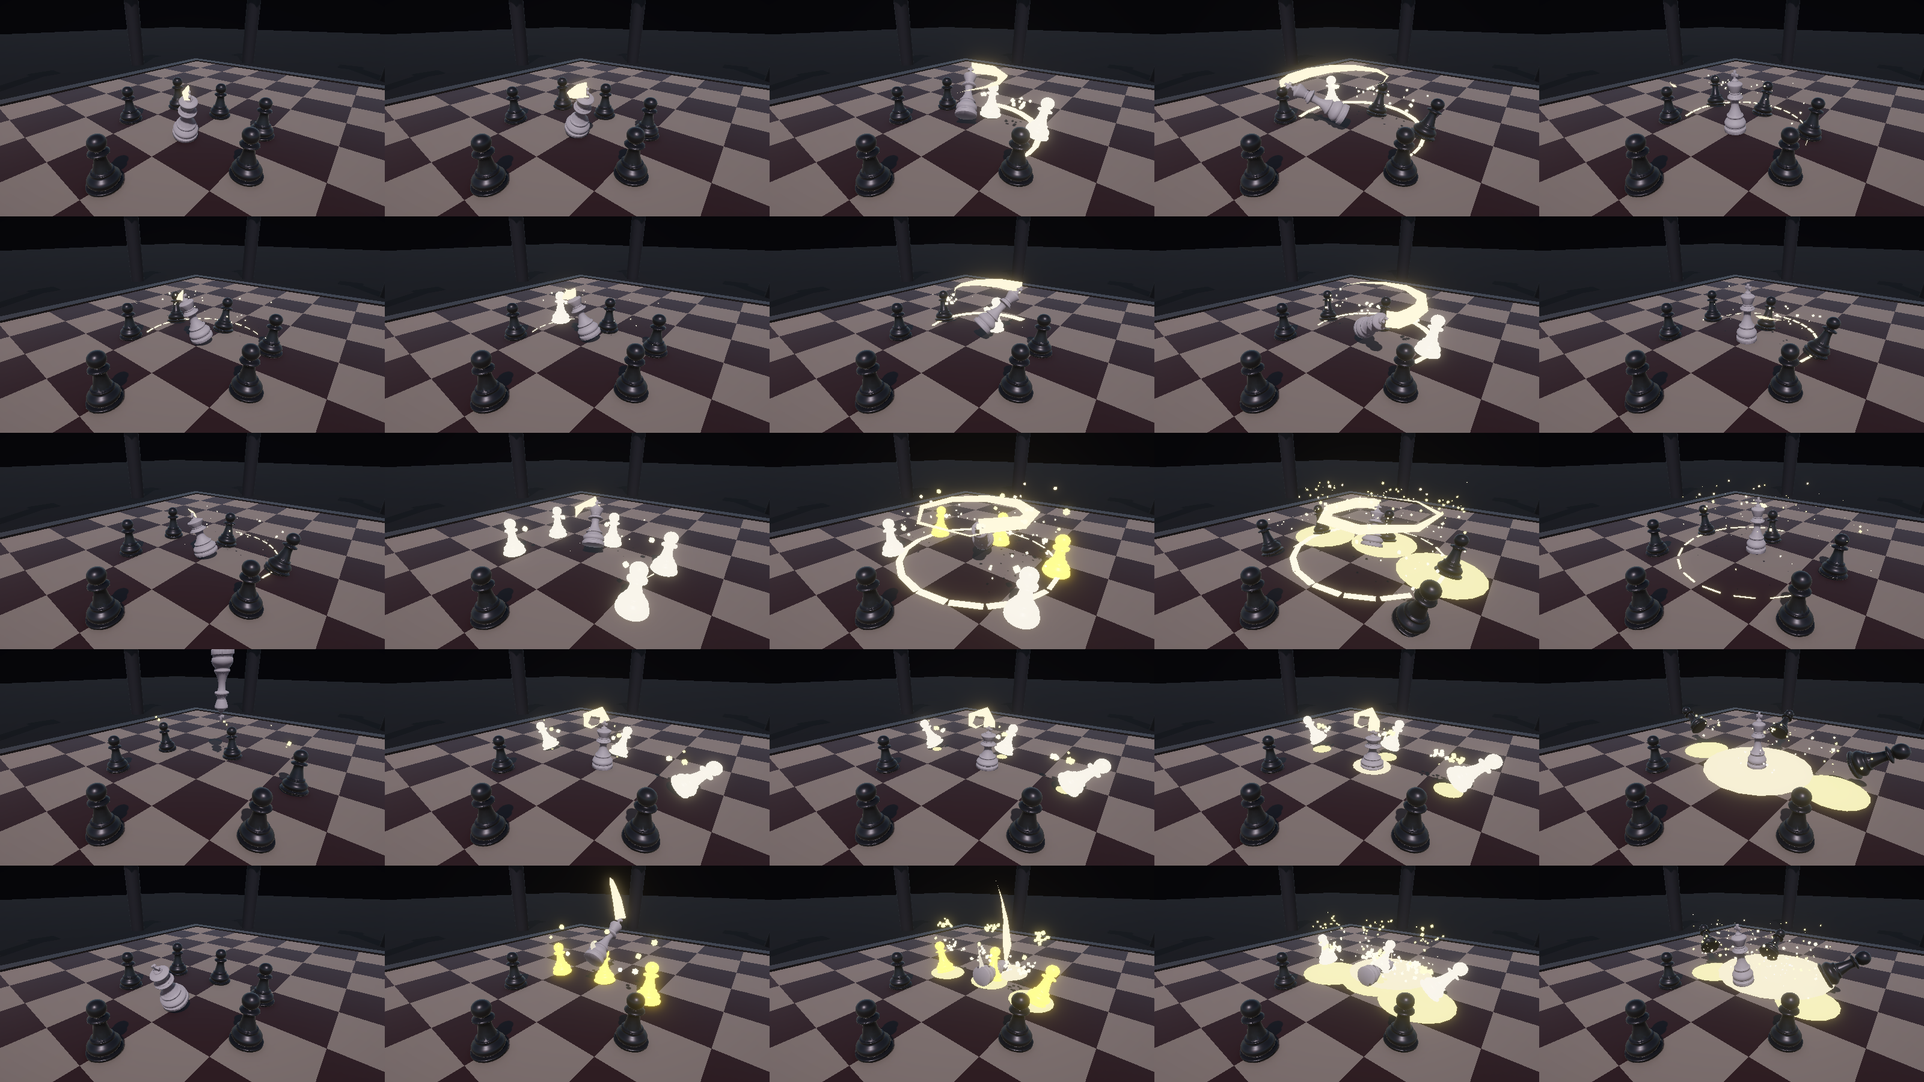
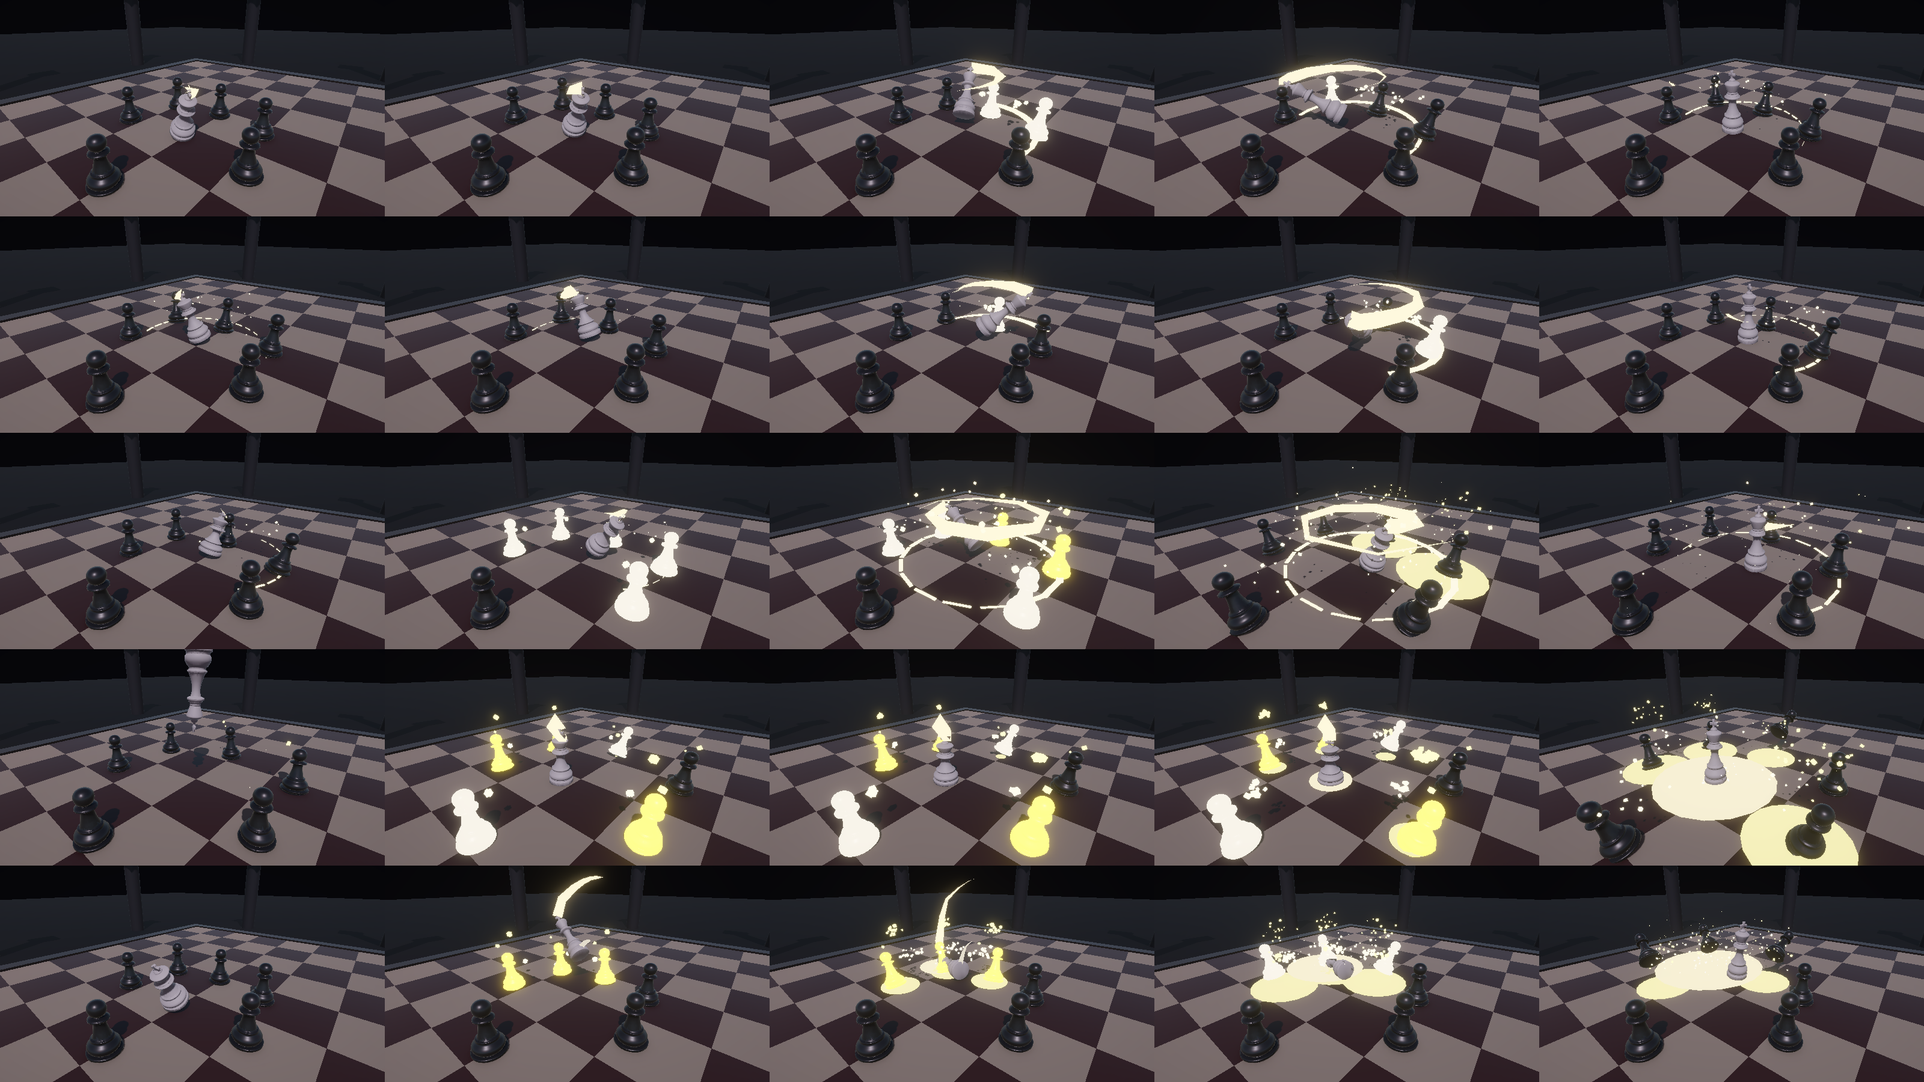
Multi-target auto-aim, round-end flow and the new round lineup
- Auto-aim picks the facing that hits the most nearby pieces (candidates:
  toward each piece and between each pair; input only breaks ties), keeps
  tracking during the wind-up, ignores movement input when pieces are close,
  and does nothing when they are far
- Round clear: the King finishes his current move with input ignored, then
  warps back to e1 (~2.3s) before the next round
- Rounds: 4 pawns first, knights from round 2, round 10 is the whole black
  army (8 pawns, 2 rooks, 2 knights, 2 bishops, the Queen)
- Attack Lab: cluster vs. lone target, close-behind and far-away aim checks

diff --git a/Assets/Scripts/Combat/PlayerController.cs b/Assets/Scripts/Combat/PlayerController.cs
@@ -19,10 +19,8 @@ namespace KingLastPiece
         const float SprintSpeed = 8.2f, SprintDrain = 14f, SprintRecoverAt = 20f;
         /// <summary>Light (combo) attacks cost only this fraction of their listed stamina.</summary>
         const float LightCostScale = 0.35f;
-        // Soft auto-targeting: nearby piece within this range/angle of the aim gets faced when an attack starts.
-        // Close pieces get a wide cone (helps when they slip to the side); farther ones need to be roughly aimed at.
-        const float SoftTargetMinRange = 2.5f, SoftTargetMaxRange = 4.5f, SoftTargetCloseRange = 3f;
-        const float SoftTargetCloseAngle = 120f, SoftTargetFarAngle = 60f;
+        // Auto-aim: only pieces within this range (scaled by the attack's reach) are considered.
+        const float AssistMinRange = 2.5f, AssistMaxRange = 4.5f;
         const float DodgeDuration = 0.5f, IFrameStart = 0.03f, IFrameEnd = 0.36f, DodgeCancelAt = 0.4f;
 
         // Dodge charges replace stamina for rolling: a short burst of rolls, refilled quickly.
@@ -58,6 +56,7 @@ namespace KingLastPiece
         public bool IsCountering => state == State.Counter;
         public bool IsSprinting { get; private set; }
         public Vector3 LastDodgeDirection { get; private set; }
+        bool InputEnabled { get; set; } = true;
         public bool IsDodging => state == State.Dodge;
         public bool IsAttacking => state == State.Attack;
         public bool IsIdle => state == State.Normal;
@@ -84,7 +83,9 @@ namespace KingLastPiece
         float dodgeRecharge, sprintBlend;
         bool sprintExhausted;
         bool justThisDodge;
-        EnemyBase justTarget, counterTarget, softTarget;
+        EnemyBase justTarget, counterTarget;
+        readonly List<EnemyBase> assistNearby = new List<EnemyBase>();
+        readonly List<Vector3> assistCandidates = new List<Vector3>();
         Vector3 counterFrom, counterTo;
         float counterAngle0;
         bool counterReleased;
@@ -156,6 +157,22 @@ namespace KingLastPiece
             Flash(new Color(1f, 0.8f, 0.3f) * 1.5f, 0.4f);
         }
 
+        /// <summary>Between rounds: warp back to the starting square (with a little sparkle at both ends).</summary>
+        public void ReturnToStart(Vector3 pos, float yaw)
+        {
+            var gold = new Color(1f, 0.85f, 0.45f);
+            Effects.Sparks(transform.position + Vector3.up, gold, 14, 3f);
+            transform.SetPositionAndRotation(new Vector3(pos.x, 0f, pos.z), Quaternion.Euler(0f, yaw, 0f));
+            if (!IsDead) Enter(State.Normal);
+            ApplyPose(default);
+            crownTrail.emitting = baseTrail.emitting = false;
+            crownTrail.Clear();
+            baseTrail.Clear();
+            LockTarget = null;
+            Effects.Shockwave(FlatPos, 1.4f, gold, 0.4f);
+            Effects.Sparks(transform.position + Vector3.up, gold, 14, 3f);
+        }
+
         public void RefillForLab()
         {
             Health = MaxHealth;
@@ -181,10 +198,15 @@ namespace KingLastPiece
                 ApplyPose(BodyPose.P(tilt: -90f * p + 6f * Mathf.Sin(Mathf.Clamp01(stateTime / 0.9f) * Mathf.PI)));
                 return;
             }
-            if (Game == null || Game.State != GameManager.GameState.Playing) return;
+            if (Game == null) return;
+            // After a round is cleared the King finishes whatever he was doing (input ignored) instead of freezing.
+            bool roundOver = Game.State == GameManager.GameState.WaveClear;
+            if (Game.State != GameManager.GameState.Playing && !roundOver) return;
+            InputEnabled = !roundOver;
 
             dt = DeltaTime;
-            ReadInput(dt);
+            if (InputEnabled) ReadInput(dt);
+            else { buffer = Buffered.None; LockTarget = null; }
             stateTime += dt;
             UpdateStamina(dt);
             UpdateDodgeCharges(dt);
@@ -279,6 +301,7 @@ namespace KingLastPiece
 
         Vector3 InputDirection()
         {
+            if (!InputEnabled) return Vector3.zero;
             Vector2 mi = GameInput.Move;
             var rig = Game.Rig;
             return rig.FlatRight * mi.x + rig.FlatForward * mi.y;
@@ -390,52 +413,98 @@ namespace KingLastPiece
             Enter(State.Attack);
 
             Vector3 dir = InputDirection();
-            // Soft auto-targeting (no visuals): without a lock-on, turn toward a nearby piece in the aimed direction.
-            softTarget = LockTarget == null ? FindSoftTarget(dir.sqrMagnitude > 0.01f ? dir : transform.forward, atk.Reach) : null;
-            var aim = AimTarget;
-            if (aim != null) dir = aim.FlatPos - FlatPos;
+            // Auto-aim (no visuals): with pieces close by, face the direction that hits the most of them —
+            // regardless of where the player is moving. Far away it does nothing.
+            if (LockTarget != null) dir = LockTarget.FlatPos - FlatPos;
+            else if (TryFindAssistDirection(dir.sqrMagnitude > 0.01f ? dir : transform.forward, out var best)) dir = best;
             if (dir.sqrMagnitude > 0.01f) transform.rotation = Quaternion.LookRotation(new Vector3(dir.x, 0f, dir.z));
         }
 
-        /// <summary>Lock-on target, or the soft auto-target picked when the attack started.</summary>
-        EnemyBase AimTarget => LockTarget != null ? LockTarget : softTarget != null && !softTarget.IsDead ? softTarget : null;
-
         /// <summary>
-        /// Nearest piece within reach that is roughly where the player is aiming (stick/keys, or facing when idle).
-        /// Distance matters most; the angle only breaks ties, so close enemies win even slightly off-axis.
+        /// Picks the facing that makes the current attack hit the most pieces in assist range.
+        /// Candidates: toward each nearby piece, between every pair of them, and the player's own aim
+        /// (which only breaks ties). Returns false when nothing is close enough to assist.
         /// </summary>
-        EnemyBase FindSoftTarget(Vector3 aimDir, float reach)
+        bool TryFindAssistDirection(Vector3 preferred, out Vector3 best)
         {
-            float maxDist = Mathf.Clamp(reach + 0.8f, SoftTargetMinRange, SoftTargetMaxRange);
-            EnemyBase best = null;
-            float bestScore = float.MaxValue;
+            best = Vector3.zero;
+            float range = Mathf.Clamp(atk.Reach + 0.6f, AssistMinRange, AssistMaxRange);
+            assistNearby.Clear();
+            foreach (var e in Game.Enemies)
+                if (e != null && !e.IsDead && e.Targetable && (e.FlatPos - FlatPos).magnitude <= range + e.Radius)
+                    assistNearby.Add(e);
+            if (assistNearby.Count == 0) return false;
+
+            assistCandidates.Clear();
+            preferred.y = 0f;
+            assistCandidates.Add(preferred.normalized);
+            for (int i = 0; i < assistNearby.Count; i++)
+            {
+                Vector3 a = (assistNearby[i].FlatPos - FlatPos).normalized;
+                assistCandidates.Add(a);
+                for (int j = i + 1; j < assistNearby.Count; j++)
+                {
+                    Vector3 mid = a + (assistNearby[j].FlatPos - FlatPos).normalized;
+                    if (mid.sqrMagnitude > 0.01f) assistCandidates.Add(mid.normalized);
+                }
+            }
+
+            int bestHits = 0;
+            float bestScore = float.MinValue;
+            foreach (var c in assistCandidates)
+            {
+                if (c.sqrMagnitude < 0.01f) continue;
+                int hits = 0;
+                foreach (var e in Game.Enemies)
+                    if (e != null && !e.IsDead && e.Targetable && atk.WouldHit(FlatPos, c, e.FlatPos, e.Radius)) hits++;
+                float score = hits * 1000f - Vector3.Angle(c, preferred);
+                if (score > bestScore) { bestScore = score; bestHits = hits; best = c; }
+            }
+
+            if (bestHits == 0)
+            {
+                // Close but out of this attack's reach: still turn to the nearest piece.
+                EnemyBase nearest = null;
+                float nd = float.MaxValue;
+                foreach (var e in assistNearby)
+                {
+                    float d = (e.FlatPos - FlatPos).magnitude;
+                    if (d < nd) { nd = d; nearest = e; }
+                }
+                best = (nearest.FlatPos - FlatPos).normalized;
+            }
+            return true;
+        }
+
+        /// <summary>A piece right in front of the King stops the attack's forward lunge.</summary>
+        bool LungeBlocked()
+        {
             foreach (var e in Game.Enemies)
             {
-                if (e == null || e.IsDead || !e.Targetable) continue;
+                if (e == null || e.IsDead || e.IgnoresCollision) continue;
                 Vector3 to = e.FlatPos - FlatPos;
-                float d = to.magnitude;
-                if (d > maxDist + e.Radius) continue;
-                float angle = d > 0.01f ? Vector3.Angle(aimDir, to) : 0f;
-                if (angle > (d <= SoftTargetCloseRange ? SoftTargetCloseAngle : SoftTargetFarAngle)) continue;
-                float score = d + angle * 0.02f;
-                if (score < bestScore) { bestScore = score; best = e; }
+                if (to.magnitude < Radius + e.Radius + 0.3f && Vector3.Angle(transform.forward, to) < 50f) return true;
             }
-            return best;
+            return false;
         }
 
         void UpdateAttack(float dt)
         {
             float t = stateTime, prevT = t - dt;
 
-            var aim = AimTarget;
-            if (t < atk.FirstHit && aim != null) FaceTowards(aim.FlatPos - FlatPos, 540f);
+            // Keep tracking the best direction during the wind-up (enemies move).
+            if (t < atk.FirstHit)
+            {
+                if (LockTarget != null) FaceTowards(LockTarget.FlatPos - FlatPos, 540f);
+                else if (TryFindAssistDirection(transform.forward, out var best)) FaceTowards(best, 720f);
+            }
 
             // Dodge can cancel the attack at any time except during its first active hit frames.
             bool inActive = t >= atk.FirstHit && t <= atk.hits[0].end;
             if (buffer == Buffered.Dodge && !inActive && TryAct()) return;
 
             // Root motion from move segments.
-            bool blocked = aim != null && (aim.FlatPos - FlatPos).magnitude < Radius + aim.Radius + 0.3f;
+            bool blocked = LungeBlocked();
             if (!blocked)
             {
                 foreach (var m in atk.moves)

diff --git a/Assets/Scripts/Core/GameManager.cs b/Assets/Scripts/Core/GameManager.cs
@@ -49,6 +49,8 @@ namespace KingLastPiece
         public readonly List<DamagePopup> Popups = new List<DamagePopup>();
 
 
+        bool returnedToStart;
+
         public void RevivePlayerInPlace()
         {
             Player.ResetForWave(Player.FlatPos, Player.transform.eulerAngles.y);
@@ -65,25 +67,30 @@ namespace KingLastPiece
         static readonly WaveDef[] Waves =
         {
             new WaveDef { name = "I. The Opening", pieces = new[] {
-                (PieceType.Pawn, "d7"), (PieceType.Pawn, "e7") } },
-            new WaveDef { name = "II. Pawn Storm", pieces = new[] {
                 (PieceType.Pawn, "c7"), (PieceType.Pawn, "d7"), (PieceType.Pawn, "e7"), (PieceType.Pawn, "f7") } },
-            new WaveDef { name = "III. Knight's Gambit", pieces = new[] {
-                (PieceType.Knight, "g8"), (PieceType.Pawn, "c7"), (PieceType.Pawn, "f7") } },
-            new WaveDef { name = "IV. The Long Diagonal", pieces = new[] {
-                (PieceType.Bishop, "c8"), (PieceType.Pawn, "d7"), (PieceType.Pawn, "e7") } },
+            new WaveDef { name = "II. Knight's Gambit", pieces = new[] {
+                (PieceType.Knight, "g8"), (PieceType.Pawn, "d7"), (PieceType.Pawn, "e7") } },
+            new WaveDef { name = "III. The Long Diagonal", pieces = new[] {
+                (PieceType.Bishop, "c8"), (PieceType.Pawn, "c7"), (PieceType.Pawn, "d7"), (PieceType.Pawn, "f7") } },
+            new WaveDef { name = "IV. Minor Pieces", pieces = new[] {
+                (PieceType.Knight, "b8"), (PieceType.Bishop, "f8"), (PieceType.Pawn, "d7"), (PieceType.Pawn, "e7") } },
             new WaveDef { name = "V. Castle Walls", pieces = new[] {
-                (PieceType.Rook, "a8"), (PieceType.Pawn, "c7"), (PieceType.Pawn, "f7") } },
+                (PieceType.Rook, "a8"), (PieceType.Pawn, "b7"), (PieceType.Pawn, "d7"), (PieceType.Pawn, "f7") } },
             new WaveDef { name = "VI. Twin Cavalry", pieces = new[] {
-                (PieceType.Knight, "b8"), (PieceType.Knight, "g8"), (PieceType.Pawn, "e7") } },
+                (PieceType.Knight, "b8"), (PieceType.Knight, "g8"), (PieceType.Bishop, "c8") } },
             new WaveDef { name = "VII. Fianchetto", pieces = new[] {
-                (PieceType.Bishop, "c8"), (PieceType.Bishop, "f8"), (PieceType.Pawn, "b7"), (PieceType.Pawn, "g7") } },
+                (PieceType.Bishop, "c8"), (PieceType.Bishop, "f8"), (PieceType.Rook, "h8") } },
             new WaveDef { name = "VIII. Rook Lift", pieces = new[] {
-                (PieceType.Rook, "a8"), (PieceType.Knight, "g8"), (PieceType.Bishop, "f8") } },
-            new WaveDef { name = "IX. The Black Army", pieces = new[] {
-                (PieceType.Rook, "a8"), (PieceType.Rook, "h8"), (PieceType.Knight, "b8"), (PieceType.Pawn, "d7"), (PieceType.Pawn, "e7") } },
-            new WaveDef { name = "X. The Black Queen", pieces = new[] {
-                (PieceType.Queen, "d8"), (PieceType.Pawn, "c7"), (PieceType.Pawn, "e7") } },
+                (PieceType.Rook, "a8"), (PieceType.Rook, "h8"), (PieceType.Knight, "g8"), (PieceType.Pawn, "d7"), (PieceType.Pawn, "e7") } },
+            new WaveDef { name = "IX. The Vanguard", pieces = new[] {
+                (PieceType.Knight, "b8"), (PieceType.Knight, "g8"), (PieceType.Bishop, "c8"), (PieceType.Bishop, "f8"),
+                (PieceType.Rook, "a8"), (PieceType.Pawn, "d7"), (PieceType.Pawn, "e7") } },
+            // The whole black army: 8 pawns, 2 rooks, 2 knights, 2 bishops and the Queen.
+            new WaveDef { name = "X. The Black Army", pieces = new[] {
+                (PieceType.Pawn, "a7"), (PieceType.Pawn, "b7"), (PieceType.Pawn, "c7"), (PieceType.Pawn, "d7"),
+                (PieceType.Pawn, "e7"), (PieceType.Pawn, "f7"), (PieceType.Pawn, "g7"), (PieceType.Pawn, "h7"),
+                (PieceType.Rook, "a8"), (PieceType.Knight, "b8"), (PieceType.Bishop, "c8"), (PieceType.Queen, "d8"),
+                (PieceType.Bishop, "f8"), (PieceType.Knight, "g8"), (PieceType.Rook, "h8") } },
         };
 
         public static Vector3 SquareToWorld(string sq)
@@ -280,6 +287,7 @@ namespace KingLastPiece
                         else
                         {
                             Player.Rest();
+                            returnedToStart = false;
                             ShowBanner("Pieces Captured");
                             EnterState(GameState.WaveClear);
                         }
@@ -287,7 +295,14 @@ namespace KingLastPiece
                     break;
 
                 case GameState.WaveClear:
-                    if (StateTime > 3.2f) StartWave(WaveIndex + 1);
+                    // Let the King finish his last move, then put him back on e1 before the next round.
+                    if (!returnedToStart && StateTime > 2.3f)
+                    {
+                        returnedToStart = true;
+                        Player.ReturnToStart(SquareToWorld("e1"), 0f);
+                        Rig.Snap();
+                    }
+                    if (StateTime > 3.4f) StartWave(WaveIndex + 1);
                     break;
 
                 case GameState.Dead:

diff --git a/Assets/Scripts/Lab/AttackLab.cs b/Assets/Scripts/Lab/AttackLab.cs
@@ -330,26 +330,41 @@ namespace KingLastPiece
             }
             player.GodMode = true;
 
-            // Auto-target: dummy on the right (90°), dummy behind (180°); King faces +Z, no lock, no input.
+            // Auto-aim. King at PlayerStart facing +Z, no lock-on, no input.
+            // 1) Cluster of three to the front-right vs. one closer piece to the left: should face the cluster.
             game.ClearEnemies();
             player.ResetForWave(PlayerStart, 0f);
-            var side = game.SpawnCustom<TrainingDummy>(PieceType.Pawn, PlayerStart + new Vector3(2.2f, 0f, 0f));
+            var cluster = new[] { 50f, 72f, 94f };
+            foreach (var a in cluster)
+                game.SpawnCustom<TrainingDummy>(PieceType.Pawn, PlayerStart + Quaternion.Euler(0f, a, 0f) * Vector3.forward * 2.2f);
+            game.SpawnCustom<TrainingDummy>(PieceType.Pawn, PlayerStart + Quaternion.Euler(0f, -70f, 0f) * Vector3.forward * 1.7f);
             for (int f = 0; f < 50; f++) yield return null;
             int before = game.DamageEvents;
             player.Press(PlayerController.Buffered.Light);
-            for (int f = 0; f < 6; f++) yield return null;
-            float sideAngle = Vector3.Angle(player.transform.forward, side.FlatPos - player.FlatPos);
-            for (int f = 0; f < 34; f++) yield return null;
-            int sideHits = game.DamageEvents - before;
+            for (int f = 0; f < 8; f++) yield return null;
+            float facing = Vector3.SignedAngle(Vector3.forward, player.transform.forward, Vector3.up);
+            for (int f = 0; f < 32; f++) yield return null;
+            int clusterHits = game.DamageEvents - before;
 
+            // 2) A single close piece directly behind: close enemies are always faced.
             game.ClearEnemies();
             player.ResetForWave(PlayerStart, 0f);
             var behind = game.SpawnCustom<TrainingDummy>(PieceType.Pawn, PlayerStart + new Vector3(0f, 0f, -2.2f));
             for (int f = 0; f < 50; f++) yield return null;
             player.Press(PlayerController.Buffered.Light);
-            for (int f = 0; f < 6; f++) yield return null;
+            for (int f = 0; f < 8; f++) yield return null;
             float behindAngle = Vector3.Angle(player.transform.forward, behind.FlatPos - player.FlatPos);
-            stats.AppendLine($"AutoTarget\tside_facing_angle={sideAngle:0}\tside_hits={sideHits}\tbehind_facing_angle={behindAngle:0}");
+
+            // 3) A far piece (6 units, to the side): no assist.
+            game.ClearEnemies();
+            player.ResetForWave(PlayerStart, 0f);
+            var far = game.SpawnCustom<TrainingDummy>(PieceType.Pawn, PlayerStart + new Vector3(6f, 0f, 0f));
+            for (int f = 0; f < 50; f++) yield return null;
+            player.Press(PlayerController.Buffered.Light);
+            for (int f = 0; f < 8; f++) yield return null;
+            float farAngle = Vector3.Angle(player.transform.forward, far.FlatPos - player.FlatPos);
+            stats.AppendLine($"AutoAim\tcluster_facing={facing:0}deg(cluster 50-94, lone -70)\tcluster_hits={clusterHits}" +
+                             $"\tbehind_facing_err={behindAngle:0}\tfar_facing_err={farAngle:0}(should stay ~90)");
 
             // Dodge cancel: during a light wind-up, and right after the heavy's first hit (long before its old cancel point).
             game.ClearEnemies();

diff --git a/Assets/Scripts/Combat/AttackStyles.cs b/Assets/Scripts/Combat/AttackStyles.cs
@@ -150,6 +150,32 @@ namespace KingLastPiece
             }
         }
 
+        /// <summary>
+        /// Would this attack, started at <paramref name="origin"/> facing <paramref name="dir"/>, reach a piece at
+        /// <paramref name="target"/>? Uses every hit window's shape plus the root motion before it ends.
+        /// </summary>
+        public bool WouldHit(Vector3 origin, Vector3 dir, Vector3 target, float targetRadius)
+        {
+            origin.y = 0f;
+            target.y = 0f;
+            dir.y = 0f;
+            dir.Normalize();
+            foreach (var h in hits)
+            {
+                float moved = 0f;
+                foreach (var m in moves)
+                    if (m.start < h.end) moved += m.distance * Mathf.Clamp01((h.end - m.start) / (m.end - m.start));
+                Vector3 center = origin + dir * (moved + h.forward);
+                Vector3 to = target - center;
+                float d = to.magnitude;
+                if (d > h.range + targetRadius) continue;
+                if (h.shape == HitShape.Circle || d < 0.4f) return true;
+                float half = h.sweep ? Mathf.Max(Mathf.Abs(h.sweepFrom), Mathf.Abs(h.sweepTo)) : h.arc * 0.5f;
+                if (Vector3.Angle(dir, to) <= half) return true;
+            }
+            return false;
+        }
+
         public float Coverage
         {
             get
